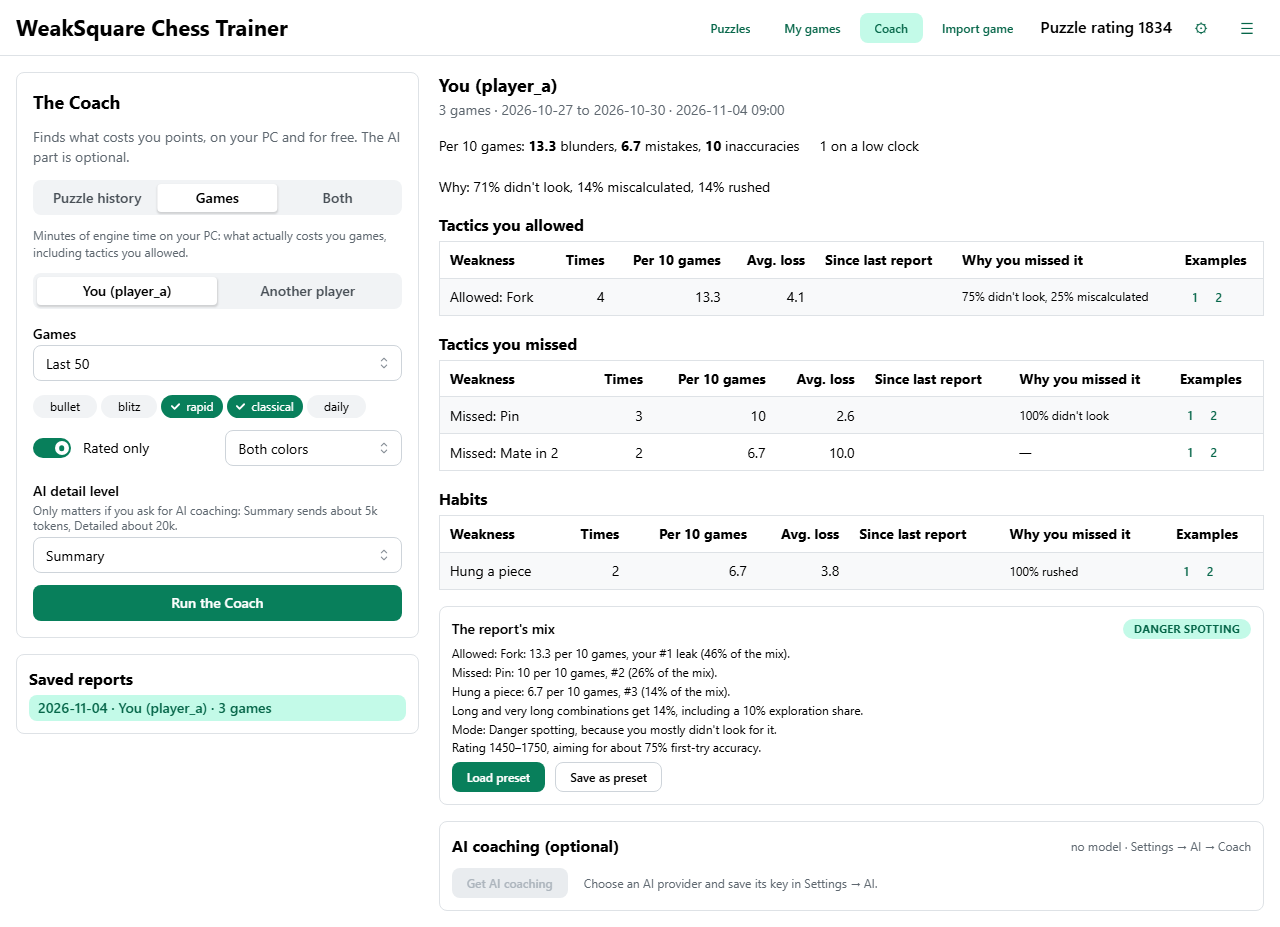
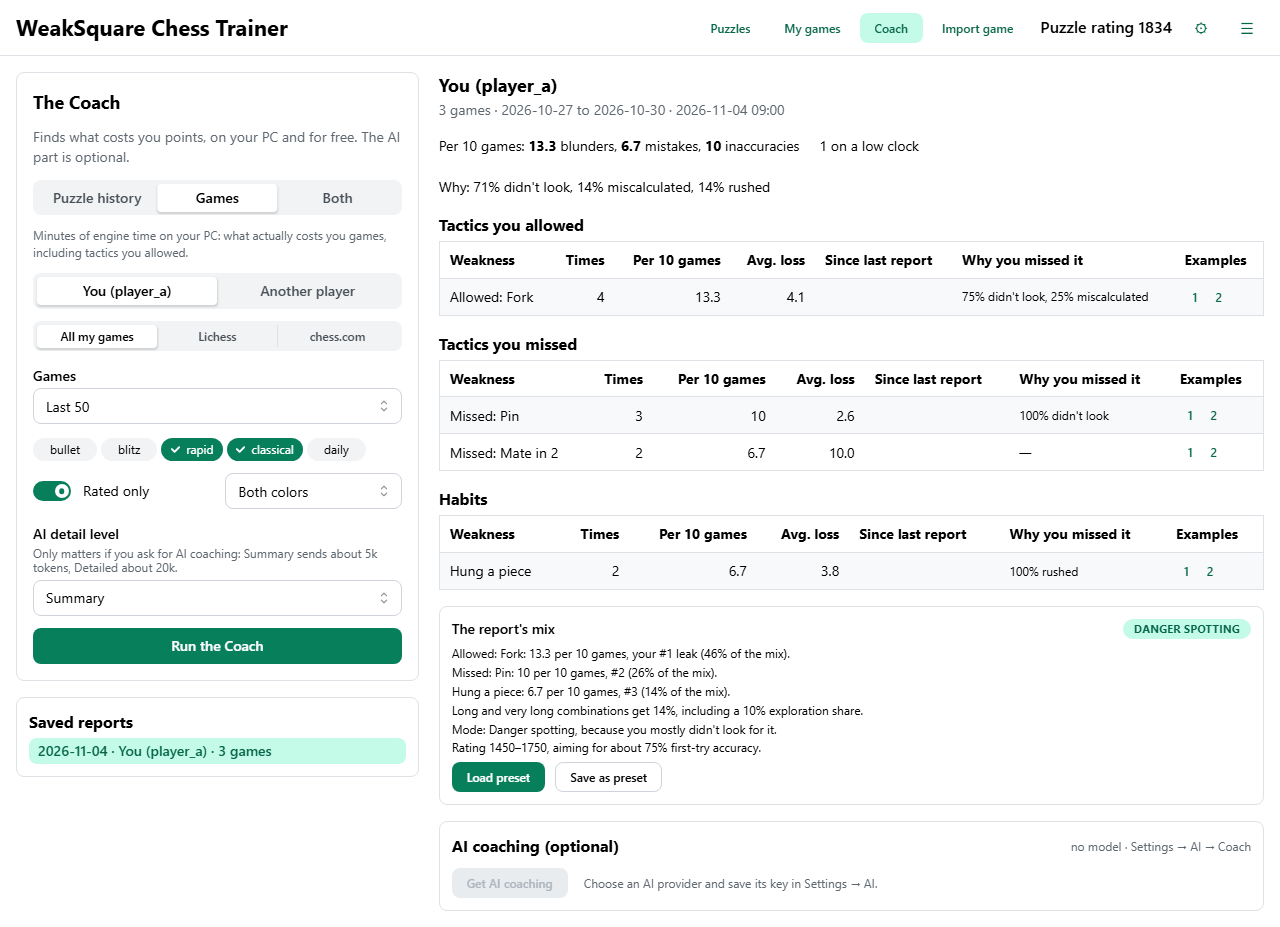
v0.10: fix QA round 2 (B9 mode waits for the running session, B10 docs and screenshots); backfill regrades old moves

Changed region(s): [[0.0, 0.3323, 0.3438, 0.8457], [0.25, 0.3625, 0.2812, 0.3927], [0.1562, 0.3625, 0.1875, 0.3927]]

diff --git a/web/src/App.tsx b/web/src/App.tsx
@@ -138,10 +138,22 @@ export function App() {
     loadSuggestion();
     api.getThemeCatalog().then(setCatalog, () => undefined);
   }, [loadSuggestion]);
+  // v0.10-B9: the mode follows the suggestion only between sessions. While one runs, the Mixer keeps
+  // showing the session's mode (§6: a mode change starts a new session); the new mode waits for its end.
+  const running = useRef(false);
+  const pendingMode = useRef<TrainingMode | null>(null);
+  useEffect(() => {
+    running.current = sessionId !== null;
+    if (sessionId === null && pendingMode.current) {
+      setMode(pendingMode.current);
+      pendingMode.current = null;
+    }
+  }, [sessionId]);
   const reloadFilters = useCallback(() => {
     api.getSettings().then((s) => {
       if (s.last_filters) setSpec(s.last_filters);
-      setMode(s.mode);
+      if (running.current) pendingMode.current = s.mode;
+      else setMode(s.mode);
     }, () => undefined); // prettier-ignore
     loadSuggestion();
   }, [loadSuggestion]);

diff --git a/tests/integration/test_game_puzzles.py b/tests/integration/test_game_puzzles.py
@@ -223,3 +223,17 @@ def test_any_analysis_calls_the_puzzle_hook(services, paths) -> None:  # type: i
     gid = services.games.import_pgn(MATE).game_id
     assert _wait(services, services.analysis.queue([gid])) == "done"
     assert seen == [gid]
+
+
+def test_r2_the_backfill_applies_the_b2_rule_to_old_analysis(services) -> None:  # type: ignore[no-untyped-def]
+    """QA round 2 observation: a move stored as Missed by v0.9's rule, which walked into a mate, becomes
+    Allowed when the v0.10 backfill runs."""
+    from dataclasses import replace as dc_replace
+
+    _recorder(services)
+    rows = _rows()
+    rows[12] = dc_replace(rows[12], eval_after=Score(mate=-1), kind="missed")  # v0.9: Missed came first
+    gid = _game(services, rows)
+    job = services.game_puzzles.start_backfill()
+    assert job is not None and services.game_puzzles._runner.wait(job, 10).state == "done"
+    assert GameAnalysisRepo(services.db).rows(gid)[12].kind == "allowed"

diff --git a/src/weaksquare/services/analysis.py b/src/weaksquare/services/analysis.py
@@ -188,6 +188,12 @@ class AnalysisService:
 
     # ------------------------------------------------------------ tags (v0.10)
 
+    def regrade_stored(self) -> int:
+        """Grade every stored move again at today's thresholds and rules (no engine). The v0.10 backfill
+        uses it so moves analyzed before v0.10 get the v0.10-B2 Missed/Allowed rule."""
+        th = self.settings().thresholds
+        return self._store.regrade(lambda row: regrade(row, th))
+
     def retag(self, game_ids: Sequence[int] | None = None, cancel: CancelToken | None = None) -> int:
         """Work out the themes and habits again from the stored analysis (no engine), for these games or
         every analyzed game. Used after a threshold change and as the v0.10 backfill. Returns the games

diff --git a/src/weaksquare/services/game_puzzles.py b/src/weaksquare/services/game_puzzles.py
@@ -104,6 +104,8 @@ class Retagger(Protocol):
 
     def thresholds_decided(self) -> int: ...
 
+    def regrade_stored(self) -> int: ...
+
 
 @dataclass(frozen=True)
 class PuzzleSettings:
@@ -383,6 +385,7 @@ class GamePuzzlesService:
 
     def _backfill(self, progress: ProgressFn, cancel: CancelToken) -> str:
         progress(None, "Tagging your analyzed games")
+        self._retagger.regrade_stored()  # moves analyzed before v0.10 get today's Missed/Allowed rule (v0.10-B2)
         self._retagger.retag(cancel=cancel)
         progress(None, "Tagging your puzzles")
         self.tag_puzzles()

diff --git a/tests/e2e/test_qa_v010_ui.py b/tests/e2e/test_qa_v010_ui.py
@@ -156,7 +156,6 @@ def test_qa_r2_the_mix_reloads_on_the_puzzles_page_with_its_mode(page) -> None: 
     shot(page, "r2-mix-after-leaving")
 
 
-@pytest.mark.xfail(strict=True, reason="v0.10-B9: the B3 reload sets the Mixer's mode but not the running session's")
 def test_qa_r2_a_run_ending_mid_session_keeps_the_mode_shown_and_the_session_in_step(page) -> None:  # type: ignore[no-untyped-def]
     """B3 fix side effect: a run that ends while a Standard session is running."""
     coach(page)

diff --git a/docs/USER_GUIDE.md b/docs/USER_GUIDE.md
@@ -651,7 +651,7 @@ If the app can't tell which side you played, it asks: **White**, **Black** or **
 ![Show best moves off](img/review-show-best-off.png)
 
 **Show best moves** is a switch at the top of the review. It's **off** at first, so you can look for the better move yourself before the engine tells you. The app remembers your choice for every game and the next time you open it.
-- **Off hides** the best-move arrow, **Engine lines here**, *Better was …* under a move, *better was …* on the key moments, the arrows and better lines from **Show me** and **Show on the board** in the AI's notes, and Stockfish's panel in Analyze from here.
+- **Off hides** the best-move arrow, **Engine lines here**, *Better was …* under a move, *better was …* on the key moments, the arrows and better lines from **Show me** and **Show on the board** in the AI's notes, the step-by-step line of **Explain this move** (its summary stays), and Stockfish's panel in Analyze from here.
 - **Off still shows** the eval graph and the eval of each move, the **?!**, **?** and **??** symbols, **Why … fails: show me**, and the AI's text.
 - Turn it on and everything appears at once. Retry mode works the same either way.
 
@@ -777,8 +777,8 @@ The Coach looks across many of your games and finds what costs you most: the tac
    - **Puzzle history:** your puzzle results per theme, here and (when you're signed in) on Lichess. No engine time.
    - **Games:** your games, analyzed by Stockfish. It takes minutes of engine time the first time, but shows what actually costs you games, including tactics you allowed.
    - **Both:** both, plus a table of themes you solve as puzzles but still miss or allow in games.
-3. For games, choose **whose**: **You** (your linked accounts and imported games) or **Another player** (see below). Then how many of the latest games (25, 50, 100 or 200), the time controls (rapid and classical by default: bullet and blitz mistakes are mostly about the clock), **Rated only**, and the color.
-4. Press **Run the Coach**. It syncs your accounts, analyzes the games that aren't analyzed yet (one at a time, with the time left and **Cancel**), tags the mistakes, makes [puzzles from them](#puzzles-from-your-games), and writes the report. You can keep solving puzzles meanwhile.
+3. For games, choose **whose**: **You** (your linked accounts and imported games) or **Another player** (see below). For yourself, choose **All my games**, **Lichess** or **chess.com**. Then how many of the latest games (25, 50, 100 or 200), the time controls (rapid and classical by default: bullet and blitz mistakes are mostly about the clock), **Rated only**, and the color.
+4. Press **Run the Coach**. If you're in the middle of a puzzle session when it finishes, the new mix's mode waits until that session ends. It syncs your accounts, analyzes the games that aren't analyzed yet (one at a time, with the time left and **Cancel**), tags the mistakes, makes [puzzles from them](#puzzles-from-your-games), and writes the report. You can keep solving puzzles meanwhile.
 
 To coach a hand-picked set of games, tick them in **My games** and press **Send to Coach**. The Coach then uses exactly those games.
 

diff --git a/ARCHITECTURE.md b/ARCHITECTURE.md
@@ -244,6 +244,7 @@ Entry format:
   - **B6:** "1 game" in Saved reports; the User Guide states Lichess's mate-in-one rule.
   - **B7:** `get_theme_catalog` returns no themes before a puzzle database exists, instead of crashing.
   - **B8:** the v0.9 smoke test reads the first two of the three AI features.
+  - **Round 2, B9:** while a puzzle session runs, a finished Coach run updates the filters but its mode waits for the session to end (App keeps it pending), so the Mixer and the session agree (§6). **B10:** the User Guide covers the account choice and the hidden explanation line; screenshots regenerated. Also from round 2: the one-time backfill regrades stored moves first (`AnalysisService.regrade_stored`), so games analyzed before v0.10 get the B2 rule.
 - Consequences: each fix has a regression test (QA's xfail tests now pass).
 
 ### 2026-11-04, v0.10: AI coaching on a report: allow-listed prompt, the Coach feature, stored on the report

diff --git a/qa/QA-v0.10.md b/qa/QA-v0.10.md
@@ -250,3 +250,6 @@ The fix commit touches `stats.py`, `review.py`, `game_review.py`, `bridge/api.py
 **Tests added in round 2** (`tests/e2e/test_qa_v010_ui.py`): `test_qa_r2_the_mix_reloads_on_the_puzzles_page_with_its_mode`, `test_qa_r2_a_run_ending_mid_session_keeps_the_mode_shown_and_the_session_in_step` (xfail B9).
 
 **For Adam's manual test** (in addition to round 1): start a puzzle session while a Coach run is going and look at the Mode control and the Rated switch when it finishes (B9). Try **Lichess** / **chess.com** on the Coach page with both accounts linked.
+
+## Builder's fixes after round 2 (2026-11-04)
+B9 and B10 fixed with regression tests (QA's B9 test is now plain). The round-2 observation about old Missed/Allowed labels is fixed too: the backfill regrades stored moves before re-tagging (`test_r2_the_backfill_applies_the_b2_rule_to_old_analysis`).
